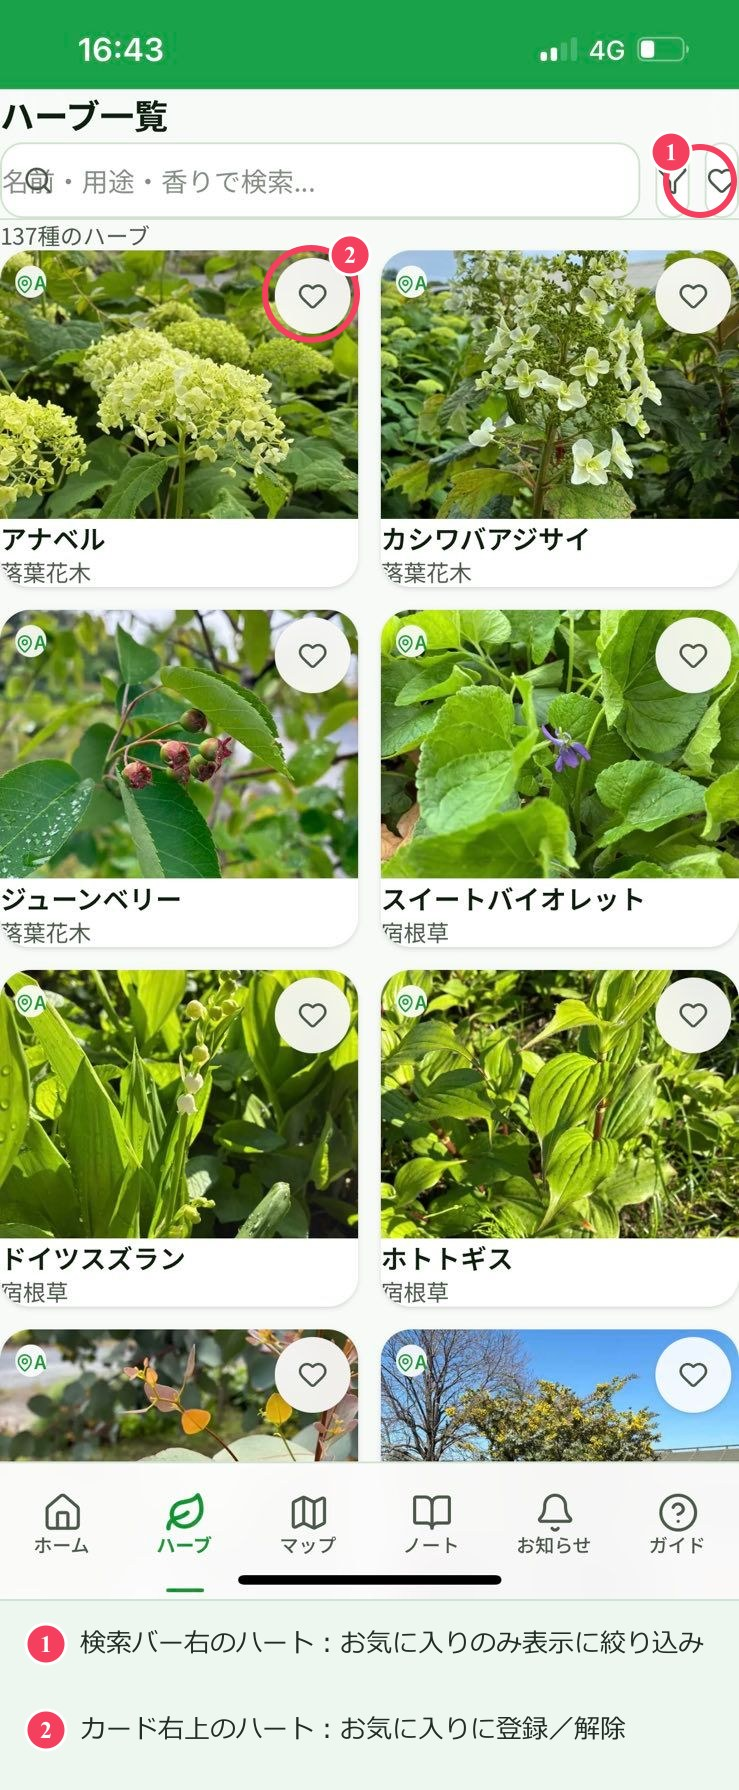
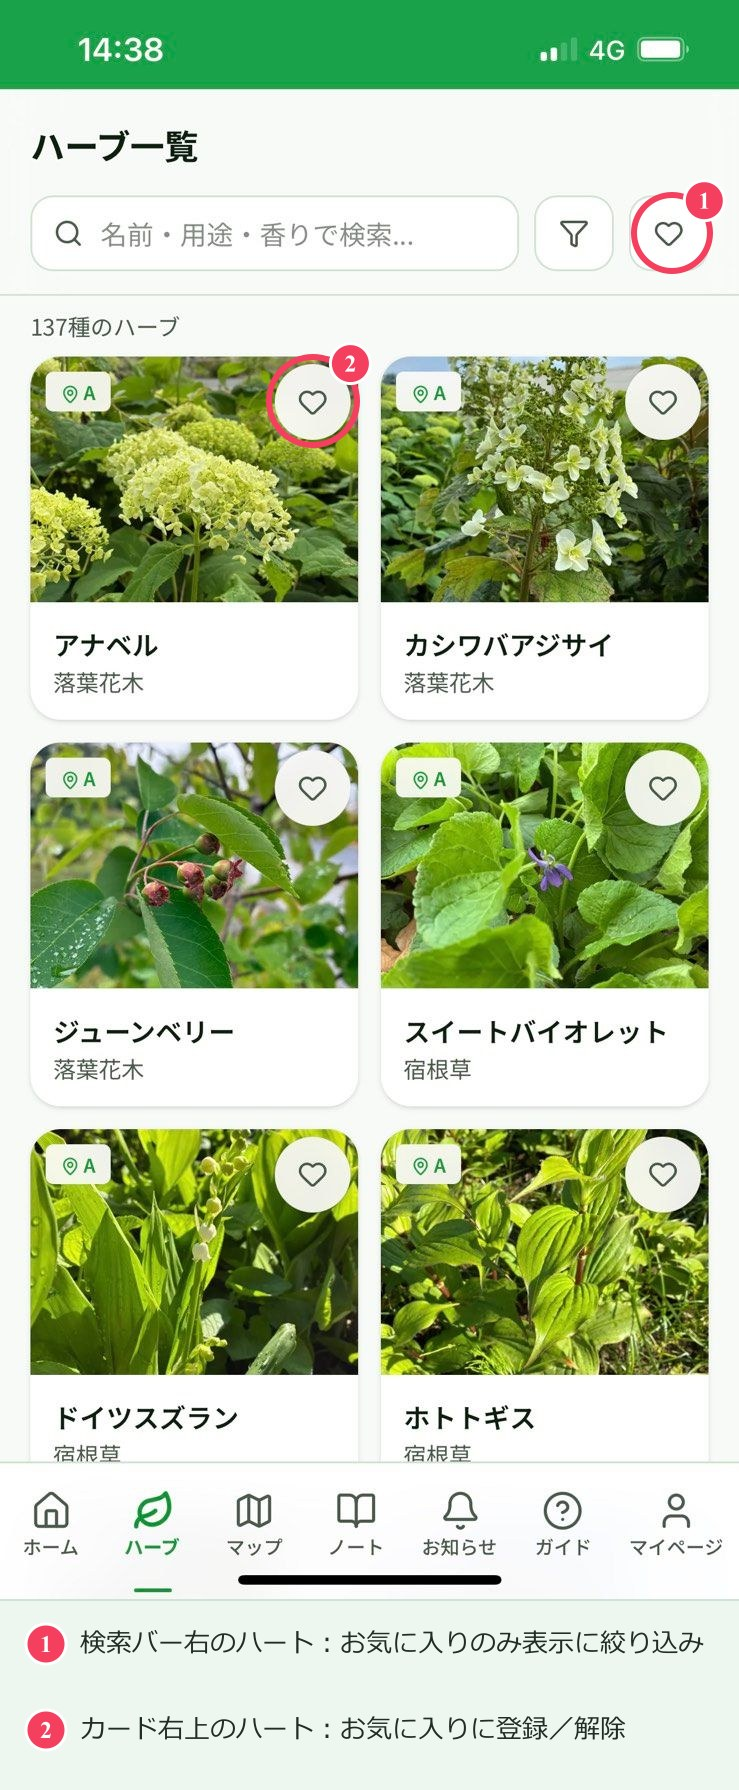
ガイドの検索方法・マップ画像を最新スクリーンショットに差し替え
検索方法の画像は最新UI（角丸検索バー）に合わせてハート注釈を再作成し、マップ画像は下部の余白をトリミングした。

diff --git a/src/data/guide.ts b/src/data/guide.ts
@@ -71,7 +71,7 @@ export const GUIDE_SECTIONS: GuideSection[] = [
     imageSrc: "/images/guide/guide_map_screenshot.jpg",
     imageAlt: "マップ画面（エリアマップ）のスクリーンショット",
     imageWidth: 739,
-    imageHeight: 656,
+    imageHeight: 860,
     imageCaption: "マップ画面（エリアマップ）のスクリーンショット",
     // TODO: 現在地表示機能は現時点で未実装。対応する場合はここに使い方を追記する。
   },
